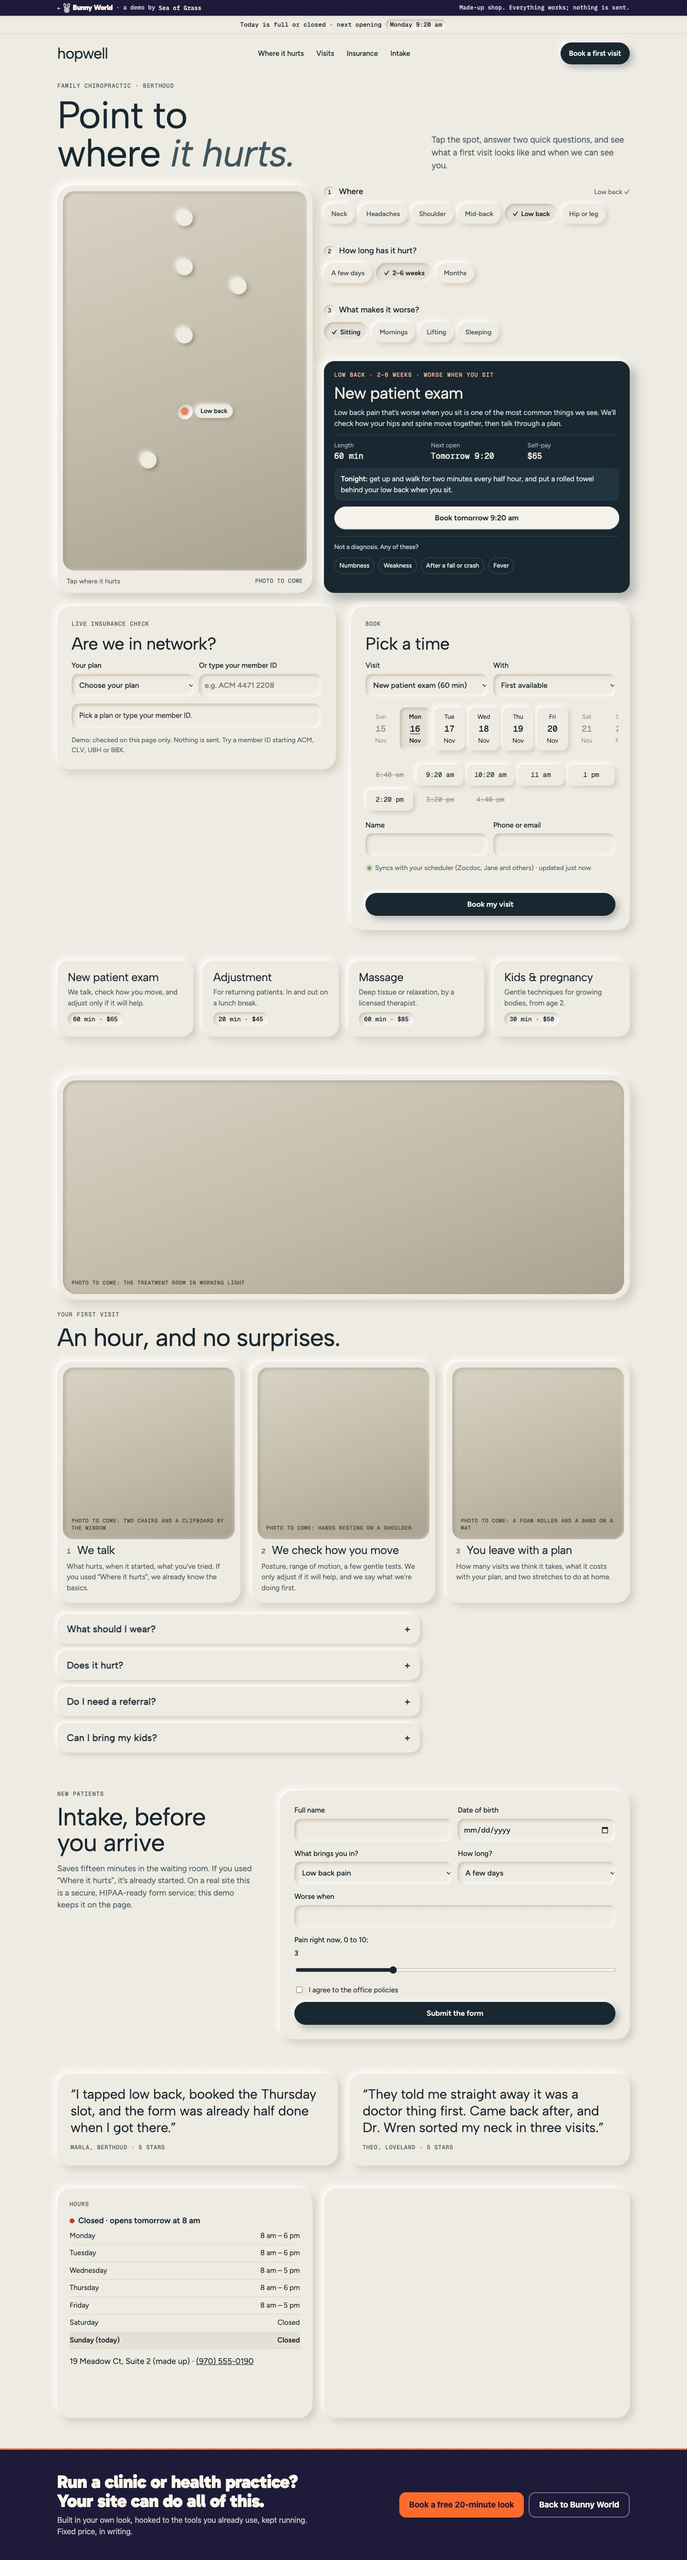
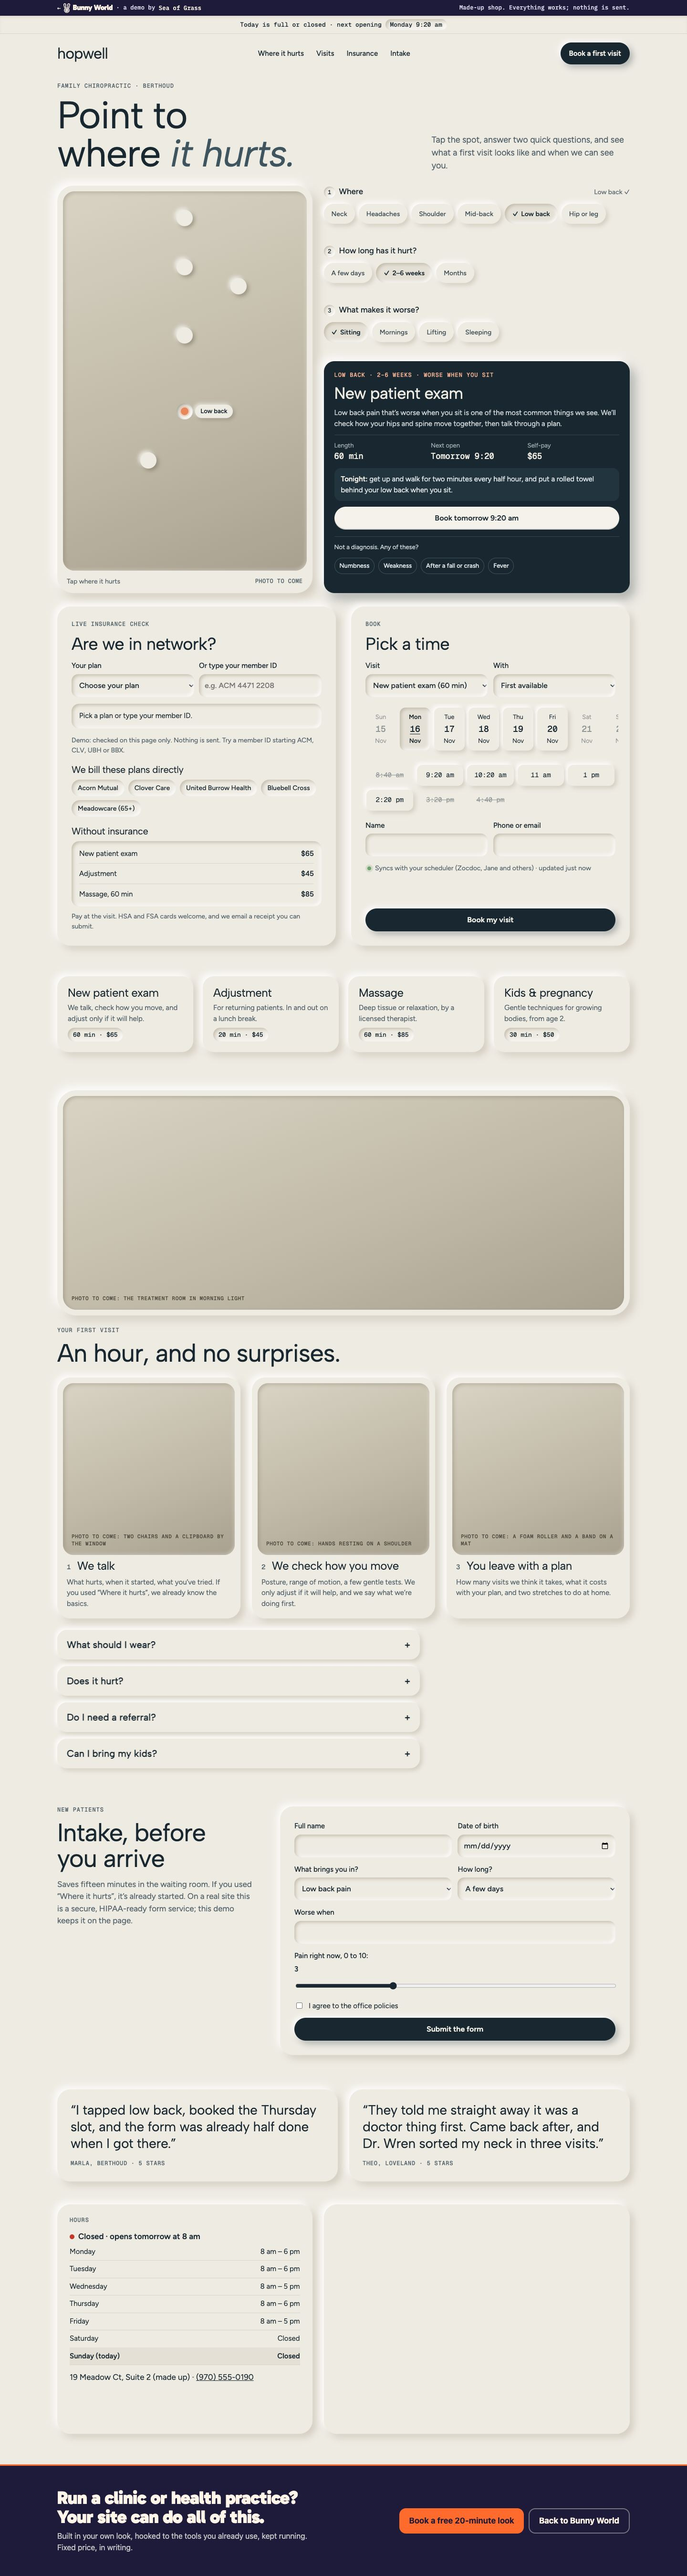
Hopwell: insurance and booking panels end together; insurance adds the plans we bill and self-pay prices

diff --git a/preview/work/bunny-world/hopwell-chiro/index.html b/preview/work/bunny-world/hopwell-chiro/index.html
@@ -16,7 +16,7 @@ window.dataLayer=window.dataLayer||[];function gtag(){dataLayer.push(arguments);
 <link rel="preconnect" href="https://fonts.googleapis.com"><link rel="preconnect" href="https://fonts.gstatic.com" crossorigin>
 <link rel="stylesheet" href="https://fonts.googleapis.com/css2?family=Albert+Sans:ital,wght@0,400;0,500;1,400&family=Figtree:wght@400;500;600&family=Geist+Mono:wght@400;500&family=IBM+Plex+Mono:wght@500&family=Gabarito:wght@900&display=swap">
 <link rel="stylesheet" href="../shop.css?v=10">
-<link rel="stylesheet" href="style.css?v=15">
+<link rel="stylesheet" href="style.css?v=17">
 </head>
 <body>
 <div class="demo"><span><a class="bw-wm" href="../" aria-label="Back to Bunny World">&larr; <img src="../brand/mark-small-cream.svg?v=2" alt="" width="13" height="20"><span>Bunny World</span></a> &middot; a demo by <a href="/">Sea of Grass</a></span><span>Made-up shop. Everything works; nothing is sent.</span></div>
@@ -63,7 +63,9 @@ window.dataLayer=window.dataLayer||[];function gtag(){dataLayer.push(arguments);
   <div class="fields"><label>Your plan<select data-plan><option value="">Choose your plan</option><option value="acorn">Acorn Mutual PPO</option><option value="clover">Clover Care</option><option value="burrow">United Burrow Health</option><option value="bluebell">Bluebell Cross</option><option value="meadow">Meadowcare (65+)</option><option value="thicket">Thicket Permanente</option><option value="none">No insurance</option></select></label>
    <label>Or type your member ID<input data-member placeholder="e.g. ACM 4471 2208" autocomplete="off" spellcheck="false"></label></div>
   <div class="ok" data-ins role="status"><span>Pick a plan or type your member ID.</span><b></b></div>
-  <p class="note">Demo: checked on this page only. Nothing is sent. Try a member ID starting ACM, CLV, UBH or BBX.</p></div>
+  <p class="note">Demo: checked on this page only. Nothing is sent. Try a member ID starting ACM, CLV, UBH or BBX.</p>
+  <div class="plans"><h3>We bill these plans directly</h3><ul class="pills"><li>Acorn Mutual</li><li>Clover Care</li><li>United Burrow Health</li><li>Bluebell Cross</li><li>Meadowcare (65+)</li></ul></div>
+  <div class="plans"><h3>Without insurance</h3><dl class="self"><div><dt>New patient exam</dt><dd>$65</dd></div><div><dt>Adjustment</dt><dd>$45</dd></div><div><dt>Massage, 60 min</dt><dd>$85</dd></div></dl><p class="note">Pay at the visit. HSA and FSA cards welcome, and we email a receipt you can submit.</p></div></div>
  <div class="box" id="book"><p class="kick">Book</p><h2>Pick a time</h2>
   <form class="form" data-demo="HW" data-ok="Booked. Your intake link is on its way.">
    <div class="row"><label>Visit<select data-sum="Visit" data-visit><option>New patient exam (60 min)</option><option>Adjustment (20 min)</option><option>Massage (60 min)</option><option>Kids and pregnancy care (30 min)</option></select></label><label>With<select data-sum="With"><option>First available</option><option>Dr. Wren Hopwell</option><option>Dr. Ash Hopwell</option></select></label></div>

diff --git a/preview/work/bunny-world/hopwell-chiro/style.css b/preview/work/bunny-world/hopwell-chiro/style.css
@@ -232,3 +232,15 @@ blockquote{background:var(--bg);border-radius:28px;padding:26px 28px;box-shadow:
  .hook .fig{position:static;display:flex;flex-direction:column}
  .hook .stage{aspect-ratio:auto;flex:1;min-height:520px}
 }
+
+/* insurance and booking end together; the insurance side carries the plan list and self-pay prices */
+.pair{align-items:stretch}
+.plans{display:grid;gap:10px;padding-top:6px}
+.plans h3{font-size:20px}
+.pills{list-style:none;margin:0;padding:0;display:flex;flex-wrap:wrap;gap:8px}
+.pills li{background:var(--bg);box-shadow:var(--in);border-radius:999px;padding:7px 13px;font-size:14px;font-weight:500}
+.self{margin:0;display:grid;gap:2px;background:var(--bg);box-shadow:var(--in);border-radius:16px;padding:6px 16px}
+.self div{display:flex;justify-content:space-between;padding:9px 0;box-shadow:0 1px 0 rgba(163,152,128,.25)}
+.self div:last-child{box-shadow:none}
+.self dt{font-size:15px}.self dd{margin:0;font:500 15px/1.4 var(--mf)}
+@media (min-width:901px){#book{display:flex;flex-direction:column}#book form{flex:1;display:flex;flex-direction:column}#book form>[type=submit]{margin-top:auto}}
